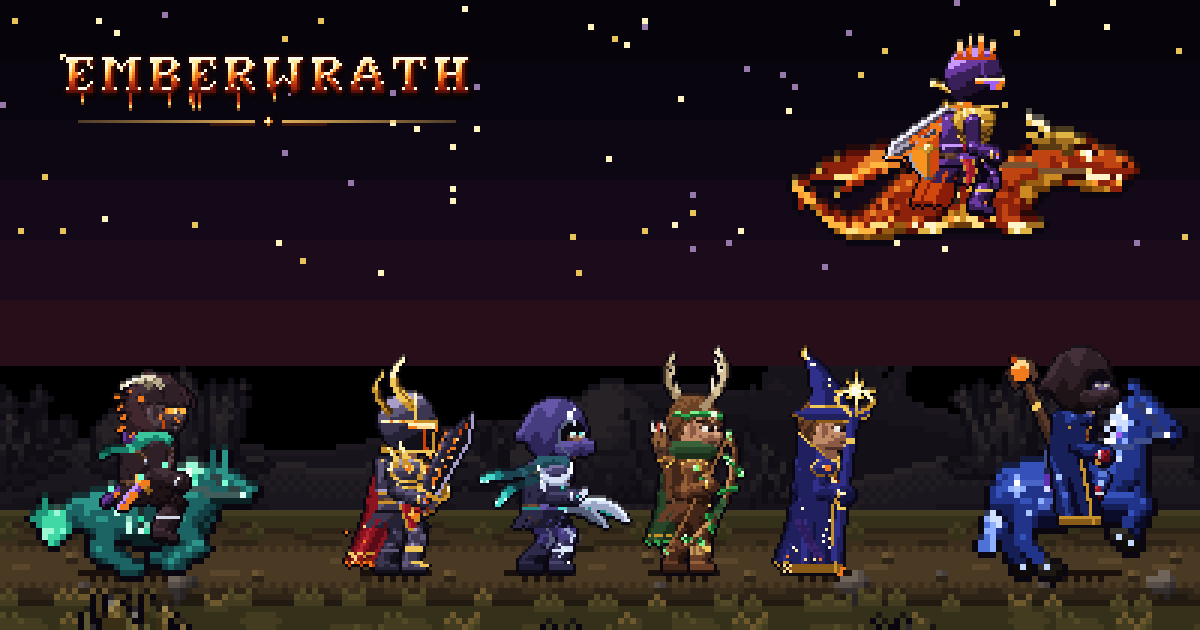
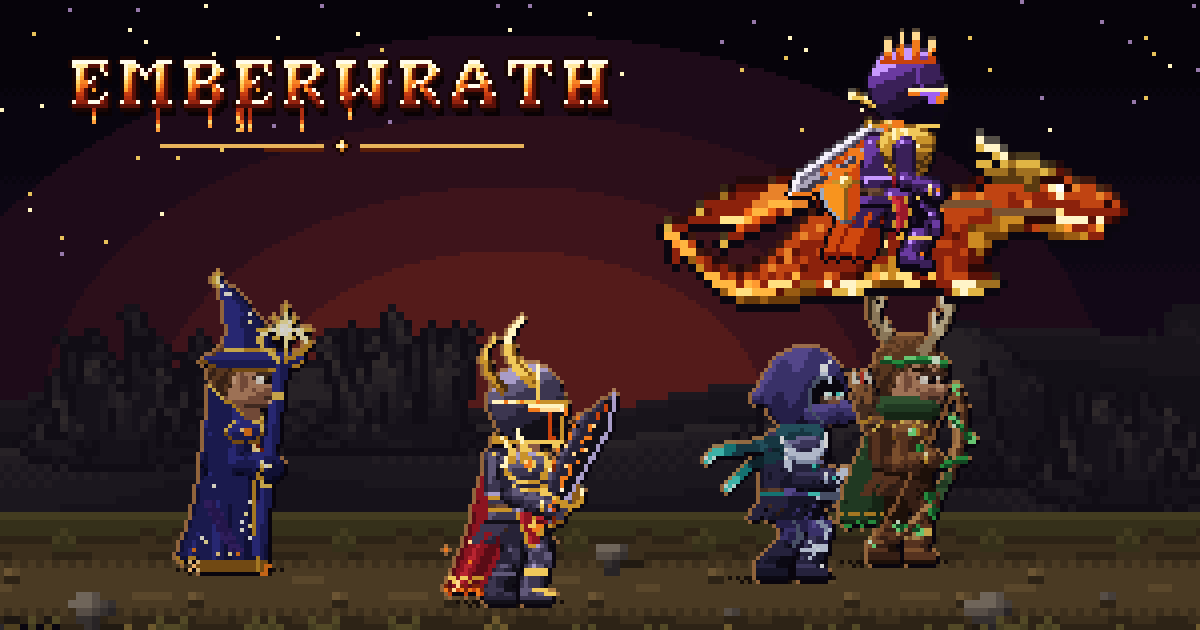
Shop-Vorschaubild: ein Raster, Krieger als Blickfang, größere Figuren
Claude-Session: https://claude.ai/code/session_014PhkKRPfPrxsXSrYyGrPFr

diff --git a/site/tools/shop-og.py b/site/tools/shop-og.py
@@ -1,6 +1,7 @@
-"""Vorschaubild der Shop-Seite beim Teilen (og:image, 1200 x 630): Logo, die vier Klassen-Sets und die drei Shop-Reittiere
-über dem Steppenboden der Reittier-Parade. Alles aus den Bildern der Seite (2× Auflösung), in ganzen Spielpixeln
-vergrößert (1 Spielpixel = 6 Bildpunkte), harte Kanten, kein Text außer dem Logo (gilt für alle Sprachen).
+"""Vorschaubild der Shop-Seite beim Teilen (og:image, 1200 x 630). Blickfang: der Krieger im Set „Wehr des Glutthrons“
+vorne, die Phönixschwinge darüber, die drei übrigen Klassen-Sets dahinter, vor einem Glutschein in harten Ringen.
+Ein einziges Raster für alles: 1 Bildpunkt der 2×-Bilder der Seite (= halber Spielpixel) und 1 Logopunkt = U Bildpunkte.
+Harte Kanten, kein Alpha, kein Text außer dem Logo (gilt für alle Sprachen).
 Aufruf: python3 site/tools/shop-og.py   → site/img/og-shop.png (neuer Name, damit Messenger kein altes Bild aus dem Cache zeigen)
 """
 import random
@@ -9,82 +10,109 @@ from pathlib import Path
 from PIL import Image
 
 IMG = Path(__file__).resolve().parent.parent / 'img'
-W, H, S = 200, 105, 6          # Spielpixel; S Bildpunkte je Spielpixel
-BASE = 95                      # Fußlinie
-out = Image.new('RGBA', (W * S, H * S), (0, 0, 0, 255))
-
-
-def px(x, y, w, h, c):
-    out.paste(c, (x * S, y * S, (x + w) * S, (y + h) * S))
-
-
-# Himmel in harten Stufen, nach unten wärmer
-SKY = [(6, 3, 10), (9, 5, 15), (13, 7, 20), (19, 9, 24), (28, 11, 26), (40, 14, 24)]
-band = 64 // len(SKY)
-for i, c in enumerate(SKY):
-    px(0, i * band, W, band + 1, c + (255,))
+U = 4                              # Bildpunkte je Rasterpunkt
+W, H = 300, 158                    # Rasterpunkte (1200 × 632, unten auf 630 beschnitten)
+BASE = 150                         # Fußlinie der vorderen Reihe in Rasterpunkten
+canvas = Image.new('RGBA', (W, H), (0, 0, 0, 255))
 rnd = random.Random(11)
-for _ in range(70):
-    x, y = rnd.randrange(W), rnd.randrange(0, 46)
-    px(x, y, 1, 1, rnd.choice([(255, 244, 192), (232, 194, 90), (150, 120, 170)]) + (255,))
 
 
-def blit(name, sx, sy, w, h, x, y, flip=False):
-    """Ausschnitt eines 2×-Bildes (Maße in Spielpixeln) an Spielposition x, y."""
-    im = Image.open(IMG / name).convert('RGBA').crop((sx * 2, sy * 2, (sx + w) * 2, (sy + h) * 2))
-    a = im.getchannel('A').point(lambda v: 255 if v >= 128 else 0)
-    im.putalpha(a)
-    if flip:
-        im = im.transpose(Image.FLIP_LEFT_RIGHT)
-    im = im.resize((w * S, h * S), Image.NEAREST)
-    out.alpha_composite(im, (x * S, y * S))
+def fill(x, y, w, h, c):
+    canvas.paste(c + (255,), (x, y, x + w, y + h))
 
 
-def tile(name, y, off):
-    im = Image.open(IMG / name)
-    tw, th = im.width // 2, im.height // 2
-    for x in range(-off, W, tw):
-        blit(name, 0, 0, tw, min(th, H - y), x, y)
+# Himmel in Stufen, Übergänge im Schachbrett statt harter Streifen
+SKY = [(6, 3, 10), (9, 5, 15), (13, 7, 20), (18, 8, 23), (24, 10, 25)]
+step = 22
+for i, c in enumerate(SKY):
+    fill(0, i * step, W, H - i * step, c)
+    if i:
+        for y in range(i * step, i * step + 2):
+            for x in range((y % 2), W, 2):
+                canvas.putpixel((x, y), SKY[i - 1] + (255,))
+# Glutschein hinter der Gruppe: harte Ellipsenringe, nach innen heller
+CX, CY = 128, 104
+for (rx, ry), c in zip(((150, 96), (118, 76), (90, 58), (64, 42)), ((30, 11, 25), (44, 15, 26), (62, 20, 27), (84, 27, 26))):
+    for y in range(max(0, CY - ry), min(H, CY + ry + 1)):
+        hw = int(rx * (1 - ((y - CY) / ry) ** 2) ** 0.5)
+        fill(max(0, CX - hw), y, min(W, CX + hw) - max(0, CX - hw), 1, c)
+for _ in range(90):
+    x, y = rnd.randrange(W), rnd.randrange(0, 70)
+    inner = ((x - CX) / 118) ** 2 + ((y - CY) / 76) ** 2 < 1
+    if not inner:
+        canvas.putpixel((x, y), rnd.choice([(255, 244, 192), (232, 194, 90), (150, 120, 170)]) + (255,))
 
 
-tile('parade-fern.webp', BASE - 34, 37)
-tile('parade-nah.webp', BASE - 10, 0)
+def load(name, box=None):
+    im = Image.open(IMG / name).convert('RGBA')
+    if box:
+        im = im.crop(box)
+    im.putalpha(im.getchannel('A').point(lambda v: 255 if v >= 128 else 0))
+    return im
 
-# Reittiere (gang-<id>.webp: w h FußX FußY, Bild 0..11) und Klassen-Sets (set-<klasse>.webp, untere Reihe = im Set)
-MOUNTS = {'phoenix_wing': (62, 44, 30, 42), 'astral_stallion': (41, 45, 19, 41), 'soul_wolf': (42, 46, 21, 43)}
+
+def rim(im, color=(255, 176, 96), k=0.55):
+    """Randlicht: deckende Punkte mit freier Nachbarschaft oben oder links werden zur Glut hin aufgehellt."""
+    px = im.load()
+    w, h = im.size
+    out = im.copy()
+    po = out.load()
+    for y in range(h):
+        for x in range(w):
+            r, g, b, a = px[x, y]
+            if not a:
+                continue
+            if (x == 0 or not px[x - 1, y][3]) or (y == 0 or not px[x, y - 1][3]):
+                po[x, y] = (round(r + (color[0] - r) * k), round(g + (color[1] - g) * k), round(b + (color[2] - b) * k), 255)
+    return out
+
+
+def tile(name, y):
+    im = load(name)
+    for x in range(-37, W, im.width):
+        canvas.alpha_composite(im, (x, y))
+
+
+def shadow(cx, y, hw):
+    for r, k in ((0, hw), (1, hw - 3)):
+        for x in range(cx - k, cx + k):
+            if r == 0 and abs(x - cx) < hw - 3 or (x + r) % 2 == 0:
+                canvas.putpixel((x, y + r), (22, 14, 10, 255))
+
+
+tile('parade-fern.webp', BASE - 74)
+tile('parade-nah.webp', BASE - 22)
+
+# Bilder der Seite: set-<klasse>.webp (untere Reihe = im Set), gang-<id>.webp; Maße in Spielpixeln wie in shop.html
 SETS = {'warrior': (25, 39, 11, 37), 'rogue': (28, 32, 12, 30), 'ranger': (20, 41, 9, 39), 'mage': (20, 41, 9, 39)}
 
 
-def mount(mid, frame, fx, fy):
-    w, h, ax, ay = MOUNTS[mid]
-    blit(f'gang-{mid}.webp', frame * w, 0, w, h, fx - ax, fy - ay)
-
-
-def hero(cls, frame, fx):
+def hero(cls, frame, fx, base, light=True, dim=1.0):
     w, h, ax, ay = SETS[cls]
-    blit(f'set-{cls}.webp', frame * w, h, w, h, fx - ax, BASE - ay)
+    im = load(f'set-{cls}.webp', (frame * w * 2, h * 2, (frame + 1) * w * 2, h * 4))
+    if dim < 1:                    # hintere Reihe etwas dunkler: Blick geht zum Krieger
+        r, g, b, a = im.split()
+        r, g, b = (c.point(lambda v: int(v * dim)) for c in (r, g, b))
+        im = Image.merge('RGBA', (r, g, b, a))
+    if light:
+        im = rim(im)
+    shadow(fx, base, 14)
+    canvas.alpha_composite(im, (fx - ax * 2, base - ay * 2))
 
 
-def shadow(cx, hw):
-    for r, k in ((0, hw), (1, hw - 2)):
-        for x in range(cx - k, cx + k):
-            if r == 0 or (x + r) % 2 == 0:
-                px(x, BASE + r, 1, 1, (26, 17, 12, 255))
+# Hintere Reihe (etwas höher, überlappt), dann vorne der Krieger
+hero('mage', 4, 58, BASE - 8, dim=0.82)
+hero('rogue', 6, 196, BASE - 6, dim=0.82)
+hero('ranger', 2, 224, BASE - 10, dim=0.82)
+# Phönixschwinge fliegt über der Gruppe
+w, h, ax, ay = 62, 44, 30, 42
+dragon = load('gang-phoenix_wing.webp', (3 * w * 2, 0, 4 * w * 2, h * 2))
+canvas.alpha_composite(dragon, (222 - ax * 2, 88 - ay * 2))
+hero('warrior', 4, 128, BASE)
 
+# Logo oben links (1 Logopunkt = 1 Rasterpunkt)
+canvas.alpha_composite(load('logo.png'), (12, 10))
 
-# Logo oben links (146 × 30 Bildpunkte, ×3 = halbe Spielpixel bleiben ganzzahlig: 1 Logopunkt = 3 Bildpunkte)
-logo = Image.open(IMG / 'logo.png').convert('RGBA')
-logo = logo.resize((logo.width * 3, logo.height * 3), Image.NEAREST)
-out.alpha_composite(logo, (8 * S, 7 * S))
-
-mount('phoenix_wing', 3, 160, 46)                    # fliegt oben rechts
-for x, hw in ((22, 9), (178, 9)):
-    shadow(x, hw)
-mount('soul_wolf', 0, 24, BASE)
-mount('astral_stallion', 2, 178, BASE)
-for cls, x in (('warrior', 66), ('rogue', 90), ('ranger', 114), ('mage', 136)):
-    shadow(x, 6)
-    hero(cls, 4, x)
-
-out.convert('RGB').save(IMG / 'og-shop.png', optimize=True)
+out = canvas.resize((W * U, H * U), Image.NEAREST).crop((0, 0, 1200, 630)).convert('RGB')
+out.save(IMG / 'og-shop.png', optimize=True)
 print('og-shop.png', out.size)
